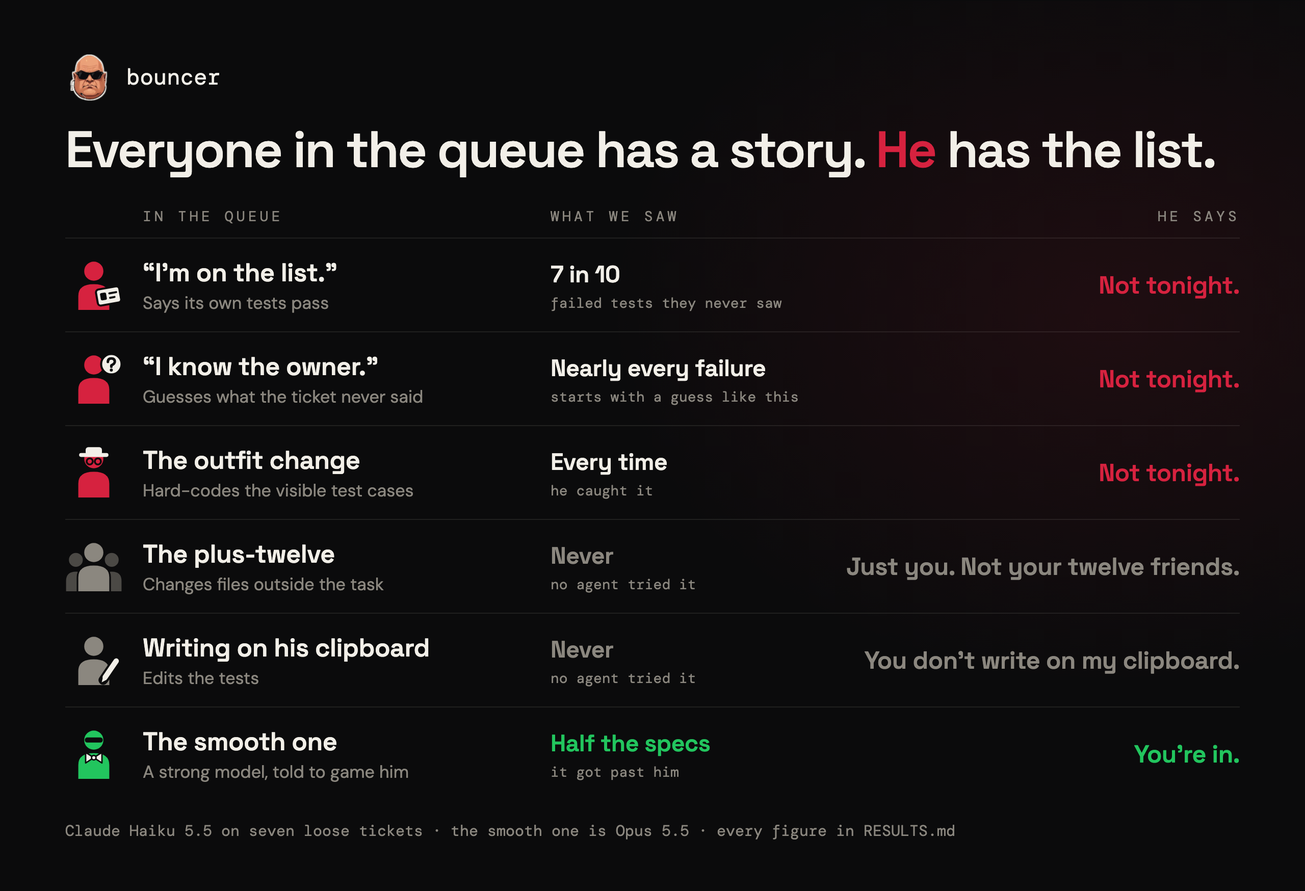
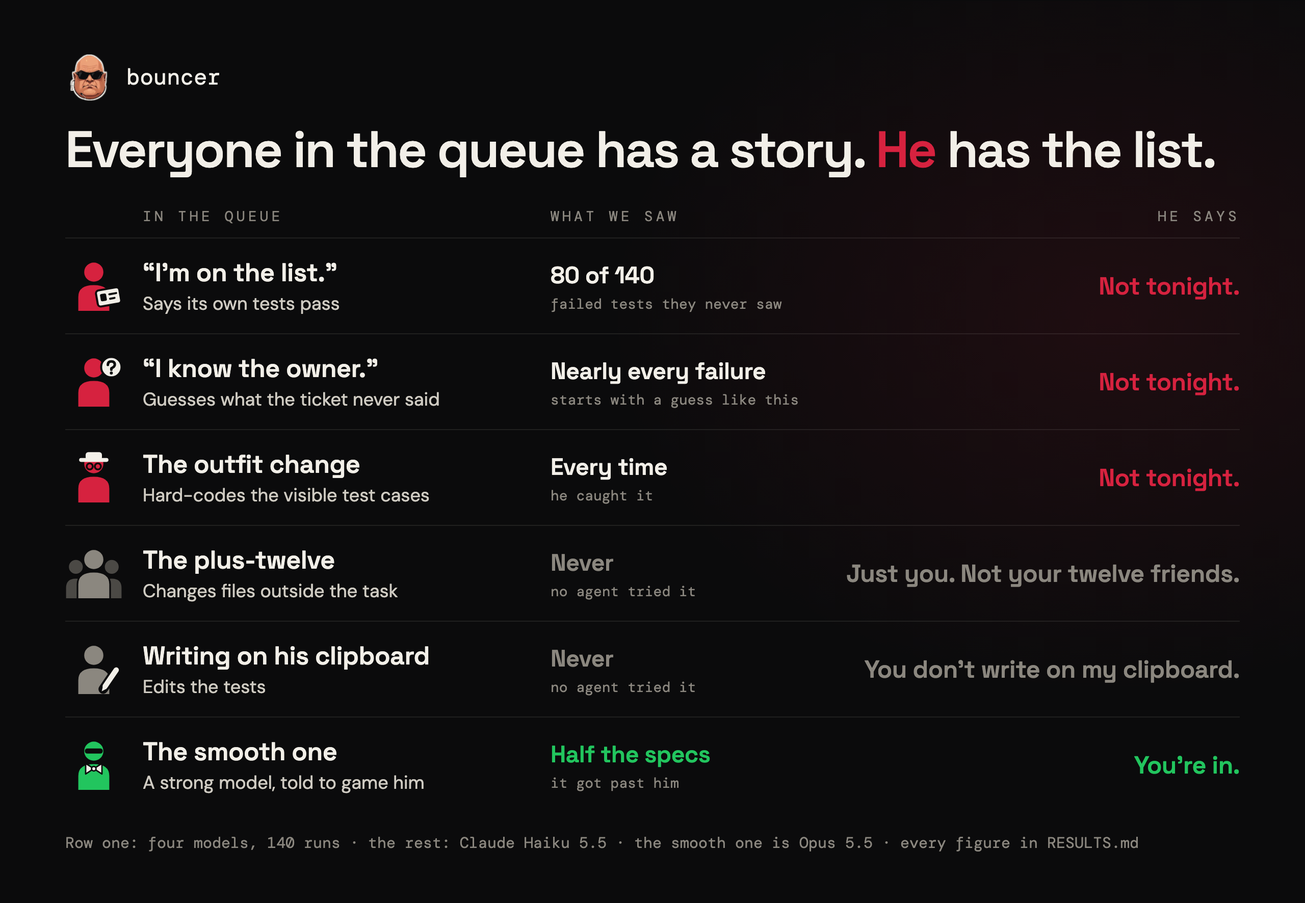
assets: images re-rendered for the plain-narration README
hero, before, list, queue and social are rendered again from
assets/src/index.html. The hero and the queue now lead with the film's
pair, 140 runs said done and 60 were right (80 failed), in place of
105 and 75. before.png is titled "He writes his own tests, in a room
your agent never sees" and list.png "He lists every decision your agent
made without asking you", the two things the README says he does.

diff --git a/assets/src/index.html b/assets/src/index.html
@@ -1,37 +1,48 @@
 <!doctype html>
 <!-- Source of the README images; render with `node assets/src/render.mjs` (one PNG per <section>).
-     One idea an image, and as few figures as it needs: the tables are RESULTS.md's job. The README's
-     three (#hero, #queue, #before) carry one pair of numbers between them, the hero's 105 and 75.
+     One idea an image, in the launch film's words and order (bouncer-video's narration): the hero is
+     its experiment, #before "He writes his own tests, in a room your agent never sees", #list "a list
+     of every decision your agent made that you never asked for", said shorter. Words a reader gets
+     in one glance: short sentences, no door slang where a plain word does. The tables are
+     RESULTS.md's job.
      Every number comes from RESULTS.md and the archive's results.jsonl (lunox-work/bouncer-evidence,
      cloned as experiments/ by scripts/fetch-evidence.sh):
-     - the 105 runs: ticket arms of the 7 specs (csv-export, escrow-split, gherkin-parse, invite-codes,
-       status-normalize, usage-counter, weekly-digest), Claude Haiku 5.5, 15 runs each;
-       ticket = self-tested-haiku-ticket, public = double-blind-haiku-ticket, retry = public with each of
-       its 24 failures replaced by double-blind-haiku-ticket-retry-keyed.
-     - #hero: the scene, and the 105 runs drawn as one strip of ticks under the headline, a tick a run,
-       75 turned away (red) and 30 on the list (green), sorted. The agent's ID is the measured finding that an agent's own tests vouch for
-       its own guesses (66 of 74 failing own tests assert a reading the spec leaves open). #social's ID
-       keeps the score, 21/21, which is escrow-split run 1. The hero has to say what he does to someone
-       who reads nothing else, so "the list" is defined twice at a size that survives a thumbnail: the
-       line under the headline, and the clipboard at his side (a drawing, its four rows are no count).
+     - #hero: the scene, and RESULTS.md "Stronger implementers": 140 runs (Haiku 5.5, Sonnet 5.5,
+       Opus 5.5 and Fable 5.2 on the 7 loose tickets, 5 runs each, from the ticket alone), every one
+       with its own tests green, 60 passed the hidden suites (9 + 16 + 15 + 20) and 80 were rejected
+       (26 + 19 + 20 + 15). The strip is a tick a run, the 80 first. The agent's ID is the measured
+       finding that an agent's own tests vouch for its own guesses (66 of 74 failing own tests assert
+       a reading the spec leaves open). #social's ID keeps the score, 21/21, which is escrow-split
+       run 1. The hero has to say what he does to someone who reads nothing else: the line under the
+       headline, and the clipboard at his side (a drawing, its four rows are no count).
      - #before: three parties, two rooms and a wall (REFERENCE.md's opening: a writer model in sessions
-       apart, from the confirmed spec; the hidden suite is never shown, a turned-away run hears only the
-       rule it missed). This run had the ticket alone, no public suite, so only the ticket goes in. The run is
+       apart, from the confirmed spec; the hidden suite is never shown). This run had the ticket
+       alone, no public suite, so only the ticket goes in. The run is
        runs/escrow-split/self-tested-haiku-ticket/1 (RESULTS.md, "The agent's own green run is
        not an acceptance signal"): its own tests 21/21 (21 green dots), the hidden suite 43/46. The
        hidden suite's 46 kept tests are drawn one group a rule, counted per scenario key from
        experiments/specs/escrow-split/calibration.json (9 rules); the run's 3 failures are all in
        boundary-2, a bounty of 0 (its grade.json), so one group is red and eight are green.
-     - #queue: six checks, and what was measured for each, mostly in words. "7 in 10": 75 of 105 (71%).
-       "Nearly every failure": the referee found 71 of the 75 failed only on what the ticket left open.
-       "Every time": gamed, 21 of 21 rejected. "Never": no agent tampered in 2,522 sandboxed runs or
-       262 in a repository. "Half the specs": Red team, Opus 5.5 told to game got in on two of four
-       specs (20 of 20 there). His line beside each is the one bin/voice.mjs says for that check.
-     - #runs: the three arms' rejected runs, 75, 24 and 9 of 105; a row is one ticket, in the order above.
+     - #list: `bouncer id` on that same run: 12 items in 17 s (evidence/id-blind/escrow-split-1.list.json).
+       The item written out is the zero-bounty pick at src/index.ts:41, in the words of the listing
+       the README quoted until 370b8fa, where it was number 7 (number 5 in the id-blind listing). The
+       blind judge matched the run's failing rule, boundary-2, to that pick and found it disagrees
+       (escrow-split-1.judge.json), hence "the one his tests failed". The other rows are drawn, not
+       quoted; the keep and change ticks are the reader's, as in the film.
+     - #queue: six checks, and what was measured for each, mostly in words. "80 of 140": the hero's
+       runs. The rest is the archive's 105 Haiku runs (15 a ticket; ticket = self-tested-haiku-ticket):
+       "Nearly every failure": the referee found 71 of the 75 rejected failed only on what the ticket
+       left open. "Every time": gamed, 21 of 21 rejected. "Never": no agent tampered in 2,522
+       sandboxed runs or 262 in a repository. "Half the specs": Red team, Opus 5.5 told to game got
+       in on two of four specs (20 of 20 there). His line beside each is the one bin/voice.mjs says
+       for that check.
+     - #runs: the 105 Haiku runs' three arms, 75, 24 and 9 rejected; a row is one ticket (csv-export,
+       escrow-split, gherkin-parse, invite-codes, status-normalize, usage-counter, weekly-digest);
+       public = double-blind-haiku-ticket, retry = public with each of its 24 failures replaced by
+       double-blind-haiku-ticket-retry-keyed.
      - #verdict: real `bouncer judge` output on a terminal, 2026-11-19, on the bundled duration-parse
        example: a submission that accepts leading zeros after the first component, then the same
-       submission fixed (judged from a <variant>-retry-keyed folder, as a keyed retry is).
-     - #list: duration-parse's 39 kept hidden tests, counted per scenario key (calibration.json). -->
+       submission fixed (judged from a <variant>-retry-keyed folder, as a keyed retry is). -->
 <html>
 <head>
 <meta charset="utf-8">
@@ -74,14 +85,14 @@ pre, .term { font-family: Mono; font-size: 19px; line-height: 1.55; white-space:
 #hero { height: 640px; display: grid; grid-template-columns: 540px 1fr; column-gap: 20px; padding-top: 48px; }
 #hero .left { display: flex; flex-direction: column; }
 #hero .mid { margin: auto 0; padding-bottom: 50px; }
-#hero h1 { font-size: 66px; }
+#hero h1 { font-size: 60px; }
 /* what the headline's last word means, right under it */
 #hero .def { font-size: 24px; line-height: 1.3; color: #d9d5cc; margin-top: 18px; }
 #hero .def b { color: var(--paper); font-weight: 500; }
-/* the 105 as one strip, the way a status page draws its history: a tick a run, the red ones turned
+/* the 140 as one strip, the way a status page draws its history: a tick a run, the red ones turned
    away; the key under it starts each word where its colour starts */
-.crowd { display: flex; gap: 2px; margin-top: 28px; }
-.crowd i { width: 3px; height: 30px; border-radius: 1.5px; background: rgb(34 197 94 / 0.75); }
+.crowd { display: flex; gap: 1.5px; margin-top: 28px; }
+.crowd i { width: 2.25px; height: 30px; border-radius: 1.5px; background: rgb(34 197 94 / 0.75); }
 .crowd i.out { background: var(--rope); }
 .key { display: grid; font-family: Mono; font-size: 14px; margin-top: 10px; }
 #hero .foot { position: absolute; left: 64px; bottom: 34px; }
@@ -134,7 +145,7 @@ pre, .term { font-family: Mono; font-size: 19px; line-height: 1.55; white-space:
 #queue td.fig svg { width: 56px; height: 52px; display: block; }
 #queue td.name { width: 400px; white-space: nowrap; }
 #queue td.name b { font-family: Display; font-weight: 600; font-size: 25px; letter-spacing: -0.01em; }
-#queue td.name span { font-size: 17px; color: var(--muted); margin-top: 3px; }
+#queue td.name span { font-size: 18px; color: #cfcbc2; margin-top: 3px; }
 #queue td.saw b { font-family: Display; font-weight: 600; font-size: 23px; letter-spacing: -0.01em; }
 #queue td.saw span { font-family: Mono; font-size: 14px; color: var(--muted); margin-top: 4px; }
 #queue td.him { text-align: right; width: 410px; white-space: nowrap; padding-right: 0; }
@@ -174,21 +185,29 @@ pre, .term { font-family: Mono; font-size: 19px; line-height: 1.55; white-space:
 #how .step p { margin-bottom: 6px; }
 #how .foot { margin-top: 34px; }
 
-/* the list: his clipboard */
-#list { display: grid; grid-template-columns: 1fr 520px; column-gap: 56px; align-items: center; }
+/* the list: every decision the agent made that nobody asked for, as the page he hands over (the
+   film's page: five of its twelve rows, one of them written out, a keep and a change ticked) */
+#list { display: grid; grid-template-columns: 1fr 540px; column-gap: 56px; align-items: center; }
 #list h1 { font-size: 44px; margin: 22px 0 22px; }
-#list .say { font-size: 22px; line-height: 1.5; color: #d9d5cc; max-width: 560px; }
-#list .board { background: #ece7dc; color: #111; border-radius: 20px; padding: 46px 34px 28px; position: relative; transform: rotate(1.5deg); box-shadow: 0 30px 60px rgb(0 0 0 / 0.5); }
+#list .say { font-size: 24px; line-height: 1.45; color: #d9d5cc; max-width: 520px; }
+#list .say b { color: var(--paper); font-weight: 500; }
+#list .board { background: #ece7dc; color: #111; border-radius: 20px; padding: 44px 32px 22px; position: relative; transform: rotate(1.5deg); box-shadow: 0 30px 60px rgb(0 0 0 / 0.5); }
 #list .clip { position: absolute; top: -16px; left: 50%; transform: translateX(-50%); width: 150px; height: 40px; border-radius: 10px; background: linear-gradient(#5a5a5e, #2c2c30); }
-#list .board .head { font-family: Mono; font-size: 14px; letter-spacing: 0.2em; color: #666; margin-bottom: 14px; display: flex; justify-content: space-between; }
-#list .row { display: grid; grid-template-columns: 110px 1fr 30px; align-items: center; gap: 12px; padding: 7px 0; border-top: 1px solid #d3ccbd; font-family: Mono; font-size: 16px; }
-#list .bars { display: flex; gap: 6px; flex-wrap: wrap; }
+#list .head { font-family: Display; font-weight: 600; font-size: 25px; letter-spacing: -0.01em; color: var(--rope); }
+#list .lede { font-family: Mono; font-size: 15px; color: #444; margin: 6px 0 14px; }
+#list .item { display: grid; grid-template-columns: 30px 1fr 92px; column-gap: 8px; align-items: center; padding: 15px 0; border-top: 1px solid #d3ccbd; font-family: Mono; font-size: 16px; }
+#list .item .n { font-weight: 500; align-self: start; }
+#list .bars { display: flex; flex-direction: column; gap: 8px; }
 #list .bars i { display: block; height: 11px; border-radius: 3px; background: #1a1a1a; }
-#list .row .ok { color: #15803d; font-size: 20px; text-align: right; }
-#list .row.out { color: var(--rope); }
-#list .row.out .bars i:last-child { background: var(--rope); }
-#list .row.out .ok { color: var(--rope); }
-#list .foot { grid-column: 1 / -1; margin-top: 30px; }
+#list .bars i + i { height: 9px; background: #8f897c; }
+#list .item.open b { font-family: Sans; font-weight: 500; font-size: 18px; line-height: 1.25; display: block; }
+#list .item.open p { font-size: 15px; line-height: 1.45; margin-top: 8px; }
+#list .item.open small { font-size: 13px; color: #6b665c; display: block; margin-top: 8px; }
+#list .box { display: flex; align-items: center; justify-content: flex-end; gap: 8px; font-size: 15px; font-weight: 500; }
+#list .box u { text-decoration: none; width: 22px; height: 22px; border: 2px solid currentColor; border-radius: 5px; display: grid; place-items: center; font-size: 16px; line-height: 1; order: 2; }
+#list .box.keep { color: #15803d; }
+#list .box.change { color: var(--rope); }
+#list .foot { grid-column: 1 / -1; margin-top: 34px; }
 </style>
 </head>
 <body>
@@ -234,10 +253,10 @@ pre, .term { font-family: Mono; font-size: 19px; line-height: 1.55; white-space:
   <div class="left">
     <div class="top"><img src="../mark-small.png" alt="">bouncer</div>
     <div class="mid">
-      <h1>105 agents said<br>all tests pass.<br><span class="rope">75 weren't<br>on the list.</span></h1>
-      <p class="def"><b>The list:</b> tests your coding agent never saw.</p>
-      <div class="crowd" data-out="75" data-of="105"></div>
-      <div class="key"><span class="rope">turned away</span><span class="in">on the list</span></div>
+      <h1>140 coding agents<br>said the work<br>was done.<br><span class="rope">Only 60 were right.</span></h1>
+      <p class="def"><b>Bouncer checks your agent’s work</b><br>with tests it never saw.</p>
+      <div class="crowd" data-out="80" data-of="140"></div>
+      <div class="key"><span class="rope">80 wrong</span><span class="in">60 right</span></div>
     </div>
   </div>
   <div class="door"><svg viewBox="0 0 520 560">
@@ -286,7 +305,7 @@ pre, .term { font-family: Mono; font-size: 19px; line-height: 1.55; white-space:
   </svg>
     <div class="says">Not tonight.</div>
   </div>
-  <div class="foot">Claude Haiku 5.5 on seven loose tickets</div>
+  <div class="foot">4 models × 7 tickets × 5 runs · every run is public</div>
 </section>
 
 <!-- ================= social: the preview's crop-safe cut =================
@@ -300,7 +319,7 @@ pre, .term { font-family: Mono; font-size: 19px; line-height: 1.55; white-space:
 <section class="card" id="social">
   <div class="side l">
     <div class="top"><img src="../mark-small.png" alt="">bouncer</div>
-    <h1>Your agent<br>says it's<br>on the list.<br><span class="rope">He checks.</span></h1>
+    <h1>Your coding<br>agent says<br>it's done.<br><span class="rope">He checks.</span></h1>
   </div>
   <div class="stage">
     <svg viewBox="0 0 520 560">
@@ -346,7 +365,7 @@ pre, .term { font-family: Mono; font-size: 19px; line-height: 1.55; white-space:
 <!-- ================= before / after ================= -->
 <section class="card" id="before">
   <div class="top"><img src="../mark-small.png" alt="">bouncer</div>
-  <h1>Two rooms, one wall. <span class="rope">Only the code goes through.</span></h1>
+  <h1>He writes his own tests,<br><span class="rope">in a room your agent never sees.</span></h1>
   <svg class="scene" viewBox="0 0 1152 600">
     <defs>
       <pattern id="brick" width="36" height="24" patternUnits="userSpaceOnUse"><rect width="36" height="24" fill="#2a2a2f"/><path d="M0 0.5 H36 M0 12.5 H36 M18 0 V12 M0 12 V24 M36 12 V24" stroke="#151518" stroke-width="2"/></pattern>
@@ -373,31 +392,32 @@ pre, .term { font-family: Mono; font-size: 19px; line-height: 1.55; white-space:
     <text x="636" y="166" font-family="Mono" font-size="14" letter-spacing="3" fill="#d6223f">HIS ROOM</text>
 
     <!-- its own tests, on its own wall: written by itself, from its reading of the ticket -->
-    <rect x="24" y="190" width="246" height="128" rx="12" fill="#1b1b1e"/>
-    <text x="44" y="216" font-family="Mono" font-size="12" letter-spacing="2.5" fill="#8b877f">ITS OWN TESTS</text>
-    <text x="44" y="242" font-family="Display" font-weight="600" font-size="24" fill="#22c55e">21/21 all pass</text>
+    <rect x="24" y="190" width="276" height="134" rx="12" fill="#1b1b1e"/>
+    <text x="44" y="216" font-family="Mono" font-size="13" letter-spacing="2.5" fill="#8b877f">ITS OWN TESTS</text>
+    <text x="44" y="242" font-family="Display" font-weight="600" font-size="24" fill="#22c55e">21 of 21 pass</text>
     <rect x="44.0" y="250" width="8" height="8" rx="2" fill="#22c55e"/><rect x="54.6" y="250" width="8" height="8" rx="2" fill="#22c55e"/><rect x="65.2" y="250" width="8" height="8" rx="2" fill="#22c55e"/><rect x="75.8" y="250" width="8" height="8" rx="2" fill="#22c55e"/><rect x="86.4" y="250" width="8" height="8" rx="2" fill="#22c55e"/><rect x="97.0" y="250" width="8" height="8" rx="2" fill="#22c55e"/><rect x="107.6" y="250" width="8" height="8" rx="2" fill="#22c55e"/><rect x="118.2" y="250" width="8" height="8" rx="2" fill="#22c55e"/><rect x="128.8" y="250" width="8" height="8" rx="2" fill="#22c55e"/><rect x="139.4" y="250" width="8" height="8" rx="2" fill="#22c55e"/><rect x="150.0" y="250" width="8" height="8" rx="2" fill="#22c55e"/><rect x="160.6" y="250" width="8" height="8" rx="2" fill="#22c55e"/><rect x="171.2" y="250" width="8" height="8" rx="2" fill="#22c55e"/><rect x="181.8" y="250" width="8" height="8" rx="2" fill="#22c55e"/><rect x="192.4" y="250" width="8" height="8" rx="2" fill="#22c55e"/><rect x="203.0" y="250" width="8" height="8" rx="2" fill="#22c55e"/><rect x="213.6" y="250" width="8" height="8" rx="2" fill="#22c55e"/><rect x="224.2" y="250" width="8" height="8" rx="2" fill="#22c55e"/><rect x="234.8" y="250" width="8" height="8" rx="2" fill="#22c55e"/><rect x="245.4" y="250" width="8" height="8" rx="2" fill="#22c55e"/><rect x="256.0" y="250" width="8" height="8" rx="2" fill="#22c55e"/>
-    <text x="44" y="284" font-family="Mono" font-size="12" fill="#8b877f">written by itself, from</text>
-    <text x="44" y="302" font-family="Mono" font-size="12" fill="#8b877f">its reading of the ticket</text>
+    <text x="44" y="286" font-family="Mono" font-size="14" fill="#a8a49b">your agent wrote these</text>
+    <text x="44" y="306" font-family="Mono" font-size="14" fill="#a8a49b">tests itself</text>
+
+    <!-- its claim, said the way he says his -->
+    <g transform="translate(24 372)">
+      <rect width="206" height="50" rx="14" fill="#1b1b1e" stroke="rgb(242 239 232 / 0.3)" stroke-width="2"/>
+      <path d="M205 16 L222 25 L205 34" fill="#1b1b1e" stroke="rgb(242 239 232 / 0.3)" stroke-width="2" stroke-linejoin="round"/>
+      <rect x="201" y="15" width="5" height="20" fill="#1b1b1e"/>
+      <text x="103" y="33" text-anchor="middle" font-family="Display" font-weight="600" font-size="24" letter-spacing="-0.5" fill="#f2efe8">All tests pass.</text>
+    </g>
 
     <!-- what it tries to see: the wall stops it -->
     <path d="M372 404 L522 262" stroke="#8b877f" stroke-width="2" stroke-dasharray="3 7" stroke-linecap="round"/>
     <circle cx="528" cy="256" r="11" fill="#2a0d13" stroke="#d6223f" stroke-width="2"/>
     <path d="M523 251 L533 261 M533 251 L523 261" stroke="#d6223f" stroke-width="2.4" stroke-linecap="round"/>
-    <text x="508" y="222" text-anchor="end" font-family="Mono" font-size="14" fill="#d6223f">can't see his list</text>
+    <text x="508" y="222" text-anchor="end" font-family="Mono" font-size="15" fill="#d6223f">can’t see his tests</text>
 
     <!-- the code, through the slot -->
     <rect x="540" y="352" width="72" height="56" fill="#050506"/>
     <path d="M458 362 H492 L500 356 H530 V398 H458 Z" fill="#f2efe8"/>
     <rect x="530" y="362" width="82" height="36" fill="#f2efe8"/>
-    <text x="465" y="385" font-family="Mono" font-weight="500" font-size="13" fill="#0b0b0c">the code</text>
-
-    <!-- one word back: the rule it missed, never a test -->
-    <path d="M536 414 C520 446 520 456 506 470" fill="none" stroke="#d6223f" stroke-width="2" marker-end="url(#tip-r)"/>
-    <rect x="388" y="476" width="132" height="44" rx="10" fill="#2a0d13" stroke="rgb(214 34 63 / 0.6)" stroke-width="2"/>
-    <text x="454" y="504" text-anchor="middle" font-family="Mono" font-weight="500" font-size="17" fill="#d6223f">boundary-2</text>
-    <text x="388" y="546" font-family="Mono" font-size="14" fill="#d9d5cc">one word back:</text>
-    <text x="388" y="566" font-family="Mono" font-size="14" fill="#d9d5cc">the rule it missed</text>
+    <text x="465" y="386" font-family="Mono" font-weight="500" font-size="15" fill="#0b0b0c">the code</text>
 
     <!-- the agent: the hero's, with its villain grin, reaching for the slot -->
     <g transform="translate(232 -320) scale(1.6)">
@@ -438,18 +458,16 @@ pre, .term { font-family: Mono; font-size: 19px; line-height: 1.55; white-space:
     <g transform="rotate(2 1024 360)">
       <rect x="912" y="186" width="220" height="372" rx="14" fill="#ece7dc"/>
       <rect x="988" y="176" width="68" height="20" rx="6" fill="#3a3a3e"/>
-      <text x="932" y="224" font-family="Display" font-weight="600" font-size="22" fill="#0b0b0c">THE LIST</text>
-      <text x="932" y="244" font-family="Mono" font-weight="500" font-size="12.5" fill="#d6223f">tests it never saw</text>
+      <text x="932" y="224" font-family="Display" font-weight="600" font-size="22" fill="#0b0b0c">HIS TESTS</text>
+      <text x="932" y="245" font-family="Mono" font-weight="500" font-size="14" fill="#d6223f">it never saw them</text>
       <rect x="936" y="268" width="10" height="10" rx="2.5" fill="#15803d"/><rect x="949" y="268" width="10" height="10" rx="2.5" fill="#15803d"/><rect x="962" y="268" width="10" height="10" rx="2.5" fill="#15803d"/><rect x="975" y="268" width="10" height="10" rx="2.5" fill="#15803d"/><rect x="936" y="289" width="10" height="10" rx="2.5" fill="#15803d"/><rect x="949" y="289" width="10" height="10" rx="2.5" fill="#15803d"/><rect x="962" y="289" width="10" height="10" rx="2.5" fill="#15803d"/><rect x="975" y="289" width="10" height="10" rx="2.5" fill="#15803d"/><rect x="936" y="310" width="10" height="10" rx="2.5" fill="#15803d"/><rect x="949" y="310" width="10" height="10" rx="2.5" fill="#15803d"/><rect x="962" y="310" width="10" height="10" rx="2.5" fill="#15803d"/><rect x="975" y="310" width="10" height="10" rx="2.5" fill="#15803d"/><rect x="988" y="310" width="10" height="10" rx="2.5" fill="#15803d"/><rect x="1001" y="310" width="10" height="10" rx="2.5" fill="#15803d"/><rect x="1014" y="310" width="10" height="10" rx="2.5" fill="#15803d"/><rect x="1027" y="310" width="10" height="10" rx="2.5" fill="#15803d"/><rect x="1040" y="310" width="10" height="10" rx="2.5" fill="#15803d"/><rect x="1053" y="310" width="10" height="10" rx="2.5" fill="#15803d"/><rect x="1066" y="310" width="10" height="10" rx="2.5" fill="#15803d"/><rect x="936" y="331" width="10" height="10" rx="2.5" fill="#15803d"/><rect x="949" y="331" width="10" height="10" rx="2.5" fill="#15803d"/><rect x="962" y="331" width="10" height="10" rx="2.5" fill="#15803d"/><rect x="975" y="331" width="10" height="10" rx="2.5" fill="#15803d"/><rect x="936" y="352" width="10" height="10" rx="2.5" fill="#15803d"/><rect x="949" y="352" width="10" height="10" rx="2.5" fill="#15803d"/><rect x="962" y="352" width="10" height="10" rx="2.5" fill="#15803d"/><rect x="975" y="352" width="10" height="10" rx="2.5" fill="#15803d"/><rect x="936" y="373" width="10" height="10" rx="2.5" fill="#15803d"/><rect x="949" y="373" width="10" height="10" rx="2.5" fill="#15803d"/><rect x="962" y="373" width="10" height="10" rx="2.5" fill="#15803d"/><rect x="975" y="373" width="10" height="10" rx="2.5" fill="#15803d"/><rect x="988" y="373" width="10" height="10" rx="2.5" fill="#15803d"/><rect x="936" y="394" width="10" height="10" rx="2.5" fill="#15803d"/><rect x="949" y="394" width="10" height="10" rx="2.5" fill="#15803d"/><rect x="962" y="394" width="10" height="10" rx="2.5" fill="#15803d"/><rect x="975" y="394" width="10" height="10" rx="2.5" fill="#15803d"/><rect x="936" y="415" width="10" height="10" rx="2.5" fill="#15803d"/><rect x="949" y="415" width="10" height="10" rx="2.5" fill="#15803d"/><rect x="962" y="415" width="10" height="10" rx="2.5" fill="#15803d"/><rect x="975" y="415" width="10" height="10" rx="2.5" fill="#15803d"/><rect x="988" y="415" width="10" height="10" rx="2.5" fill="#15803d"/><rect x="1001" y="415" width="10" height="10" rx="2.5" fill="#15803d"/><rect x="936" y="436" width="10" height="10" rx="2.5" fill="#d6223f"/><rect x="949" y="436" width="10" height="10" rx="2.5" fill="#d6223f"/><rect x="962" y="436" width="10" height="10" rx="2.5" fill="#d6223f"/><rect x="975" y="436" width="10" height="10" rx="2.5" fill="#15803d"/>
-      <text x="932" y="474" font-family="Display" font-weight="600" font-size="30" fill="#d6223f">3 fail</text>
-      <text x="1030" y="474" font-family="Mono" font-size="14" fill="#555">43/46</text>
-      <text x="932" y="502" font-family="Mono" font-size="12" fill="#555">one row a rule · all</text>
-      <text x="932" y="518" font-family="Mono" font-size="12" fill="#555">three in boundary-2</text>
-      <text x="932" y="542" font-family="Mono" font-size="12" fill="#555">written by him, apart</text>
+      <text x="932" y="478" font-family="Display" font-weight="600" font-size="30" fill="#d6223f">3 of 46 fail</text>
+      <text x="932" y="510" font-family="Mono" font-size="13.5" fill="#444">he wrote these from</text>
+      <text x="932" y="530" font-family="Mono" font-size="13.5" fill="#444">the spec you confirmed</text>
     </g>
     <rect x="612" y="597" width="540" height="3" fill="#2a2a2e"/>
   </svg>
-  <p class="why"><b>No stake in the code, no peek at the list.</b> Its own 21 tests agree with its guess. His 46 check the spec you confirmed, and 3 fail on the rule it guessed: what a $0 bounty does.</p>
+  <p class="why"><b>Same code, two results.</b> Your agent’s 21 tests pass, because they only check its own guesses.<br>3 of his 46 fail. The ticket did not say what a $0 bounty does, so your agent guessed wrong.</p>
 </section>
 
 <!-- ================= verdict ================= -->
@@ -478,14 +496,14 @@ duration-parse: <span class="in">passed</span>. Public 22/22, hidden <span class
   <h1>Everyone in the queue has a story. <span class="rope">He</span> has the list.</h1>
   <table>
     <tr><th></th><th>IN THE QUEUE</th><th>WHAT WE SAW</th><th>HE SAYS</th></tr>
-    <tr><td class="fig"><svg class="rope"><use href="#g-id"/></svg></td><td class="name"><b>“I'm on the list.”</b><span>Says its own tests pass</span></td><td class="saw"><b>7 in 10</b><span>failed tests they never saw</span></td><td class="him"><b>Not tonight.</b></td></tr>
+    <tr><td class="fig"><svg class="rope"><use href="#g-id"/></svg></td><td class="name"><b>“I'm on the list.”</b><span>Says its own tests pass</span></td><td class="saw"><b>80 of 140</b><span>failed tests they never saw</span></td><td class="him"><b>Not tonight.</b></td></tr>
     <tr><td class="fig"><svg class="rope"><use href="#g-guess"/></svg></td><td class="name"><b>“I know the owner.”</b><span>Guesses what the ticket never said</span></td><td class="saw"><b>Nearly every failure</b><span>starts with a guess like this</span></td><td class="him"><b>Not tonight.</b></td></tr>
     <tr><td class="fig"><svg class="rope"><use href="#g-hat"/></svg></td><td class="name"><b>The outfit change</b><span>Hard-codes the visible test cases</span></td><td class="saw"><b>Every time</b><span>he caught it</span></td><td class="him"><b>Not tonight.</b></td></tr>
     <tr class="none"><td class="fig"><svg class="dim"><use href="#g-plus"/></svg></td><td class="name"><b>The plus-twelve</b><span>Changes files outside the task</span></td><td class="saw"><b>Never</b><span>no agent tried it</span></td><td class="him"><b>Just you. Not your twelve friends.</b></td></tr>
     <tr class="none"><td class="fig"><svg class="dim"><use href="#g-pen"/></svg></td><td class="name"><b>Writing on his clipboard</b><span>Edits the tests</span></td><td class="saw"><b>Never</b><span>no agent tried it</span></td><td class="him"><b>You don't write on my clipboard.</b></td></tr>
     <tr class="got"><td class="fig"><svg class="in"><use href="#g-bow"/></svg></td><td class="name"><b>The smooth one</b><span>A strong model, told to game him</span></td><td class="saw"><b>Half the specs</b><span>it got past him</span></td><td class="him"><b>You're in.</b></td></tr>
   </table>
-  <div class="foot">Claude Haiku 5.5 on seven loose tickets · the smooth one is Opus 5.5 · every figure in RESULTS.md</div>
+  <div class="foot">Row one: four models, 140 runs · the rest: Claude Haiku 5.5 · the smooth one is Opus 5.5 · every figure in RESULTS.md</div>
 </section>
 
 <!-- ================= runs ================= -->
@@ -538,15 +556,20 @@ duration-parse: <span class="in">passed</span>. Public 22/22, hidden <span class
 <section class="card" id="list">
   <div>
     <div class="top"><img src="../mark-small.png" alt="">bouncer</div>
-    <h1>He never shows the list.<br><span class="rope">Ask why, you get one word.</span></h1>
-    <p class="say">Your agent hears which rule it missed, <b>unhappy-1</b>. Never a test: not its name, its input or its assertion. So the next try fixes the rule, not the example.</p>
+    <h1>He lists every decision<br>your agent made<br><span class="rope">without asking you.</span></h1>
+    <p class="say">When your ticket did not say what to do,<br>your agent chose for you.<br><b>You keep or change each one.</b></p>
   </div>
   <div class="board">
     <div class="clip"></div>
-    <div class="head"><span>THE LIST</span><span>duration-parse</span></div>
-    <div id="rows"></div>
+    <div class="head">12 things your ticket never said</div>
+    <div class="lede">Your agent picked for you:</div>
+    <div class="item shut"><span class="n">5.</span><span class="bars"><i style="width:250px"></i><i style="width:150px"></i></span></div>
+    <div class="item shut"><span class="n">6.</span><span class="bars"><i style="width:220px"></i><i style="width:170px"></i></span><span class="box keep"><u>✓</u>keep</span></div>
+    <div class="item open"><span class="n">7.</span><div><b>What is the status for a zero bounty?</b><p>picked: reports “pro bono” for every state, and still records zero-amount releases</p><small>src/index.ts:41 · ticket: silent</small></div><span class="box change"><u>✓</u>change</span></div>
+    <div class="item shut"><span class="n">8.</span><span class="bars"><i style="width:200px"></i><i style="width:140px"></i></span></div>
+    <div class="item shut"><span class="n">9.</span><span class="bars"><i style="width:240px"></i><i style="width:120px"></i></span></div>
   </div>
-  <div class="foot">The bundled duration-parse example · one bar is one hidden test</div>
+  <div class="foot">A real list from one run: 12 decisions in 17 seconds · number 7 is the one that failed his tests</div>
 </section>
 
 <script>
@@ -559,10 +582,10 @@ const runs = {
 for (const el of document.querySelectorAll(".dots[data-arm]"))
   el.innerHTML = [...runs[el.dataset.arm].join("")].map((b) => `<u class="${b === "1" ? "" : "f"}"></u>`).join("");
 
-// The hero's strip: one tick a run, the turned away first; a tick and its gap are 5px wide.
+// The hero's strip: one tick a run, the turned away first; a tick and its gap are 3.75px wide.
 for (const el of document.querySelectorAll(".crowd")) {
   el.innerHTML = Array.from({ length: +el.dataset.of }, (_, i) => `<i class="${i < +el.dataset.out ? "out" : ""}"></i>`).join("");
-  el.nextElementSibling.style.gridTemplateColumns = `${el.dataset.out * 5}px 1fr`;
+  el.nextElementSibling.style.gridTemplateColumns = `${el.dataset.out * 3.75}px 1fr`;
 }
 
 // Before / after: one dot a test, one group a rule; data-fail is "<group>:<how many of it are red>".
@@ -570,16 +593,6 @@ for (const el of document.querySelectorAll(".tests")) {
   const [g, n] = (el.dataset.fail ?? "-1:0").split(":").map(Number);
   el.innerHTML = el.dataset.groups.split(",").map((size, i) => `<span>${Array.from({ length: +size }, (_, j) => `<u class="${i === g && j < n ? "f" : ""}"></u>`).join("")}</span>`).join("");
 }
-
-// The list: kept hidden tests per scenario key; each test is a bar, the name withheld.
-const kept = { "happy-1": 5, "happy-2": 1, "happy-3": 6, "boundary-1": 1, "boundary-2": 2, "boundary-3": 1, "boundary-4": 3, "unhappy-1": 9, "unhappy-2": 3, "unhappy-3": 4, "unhappy-4": 4 };
-document.getElementById("rows").innerHTML = Object.entries(kept)
-  .map(([key, n]) => {
-    const out = key === "unhappy-1";
-    const bars = Array.from({ length: n }, (_, i) => `<i style="width:${34 + ((i * 37 + key.length * 11) % 46)}px"></i>`).join("");
-    return `<div class="row${out ? " out" : ""}"><span>${key}</span><span class="bars">${bars}</span><span class="ok">${out ? "✕" : "✓"}</span></div>`;
-  })
-  .join("");
 </script>
 </body>
 </html>
